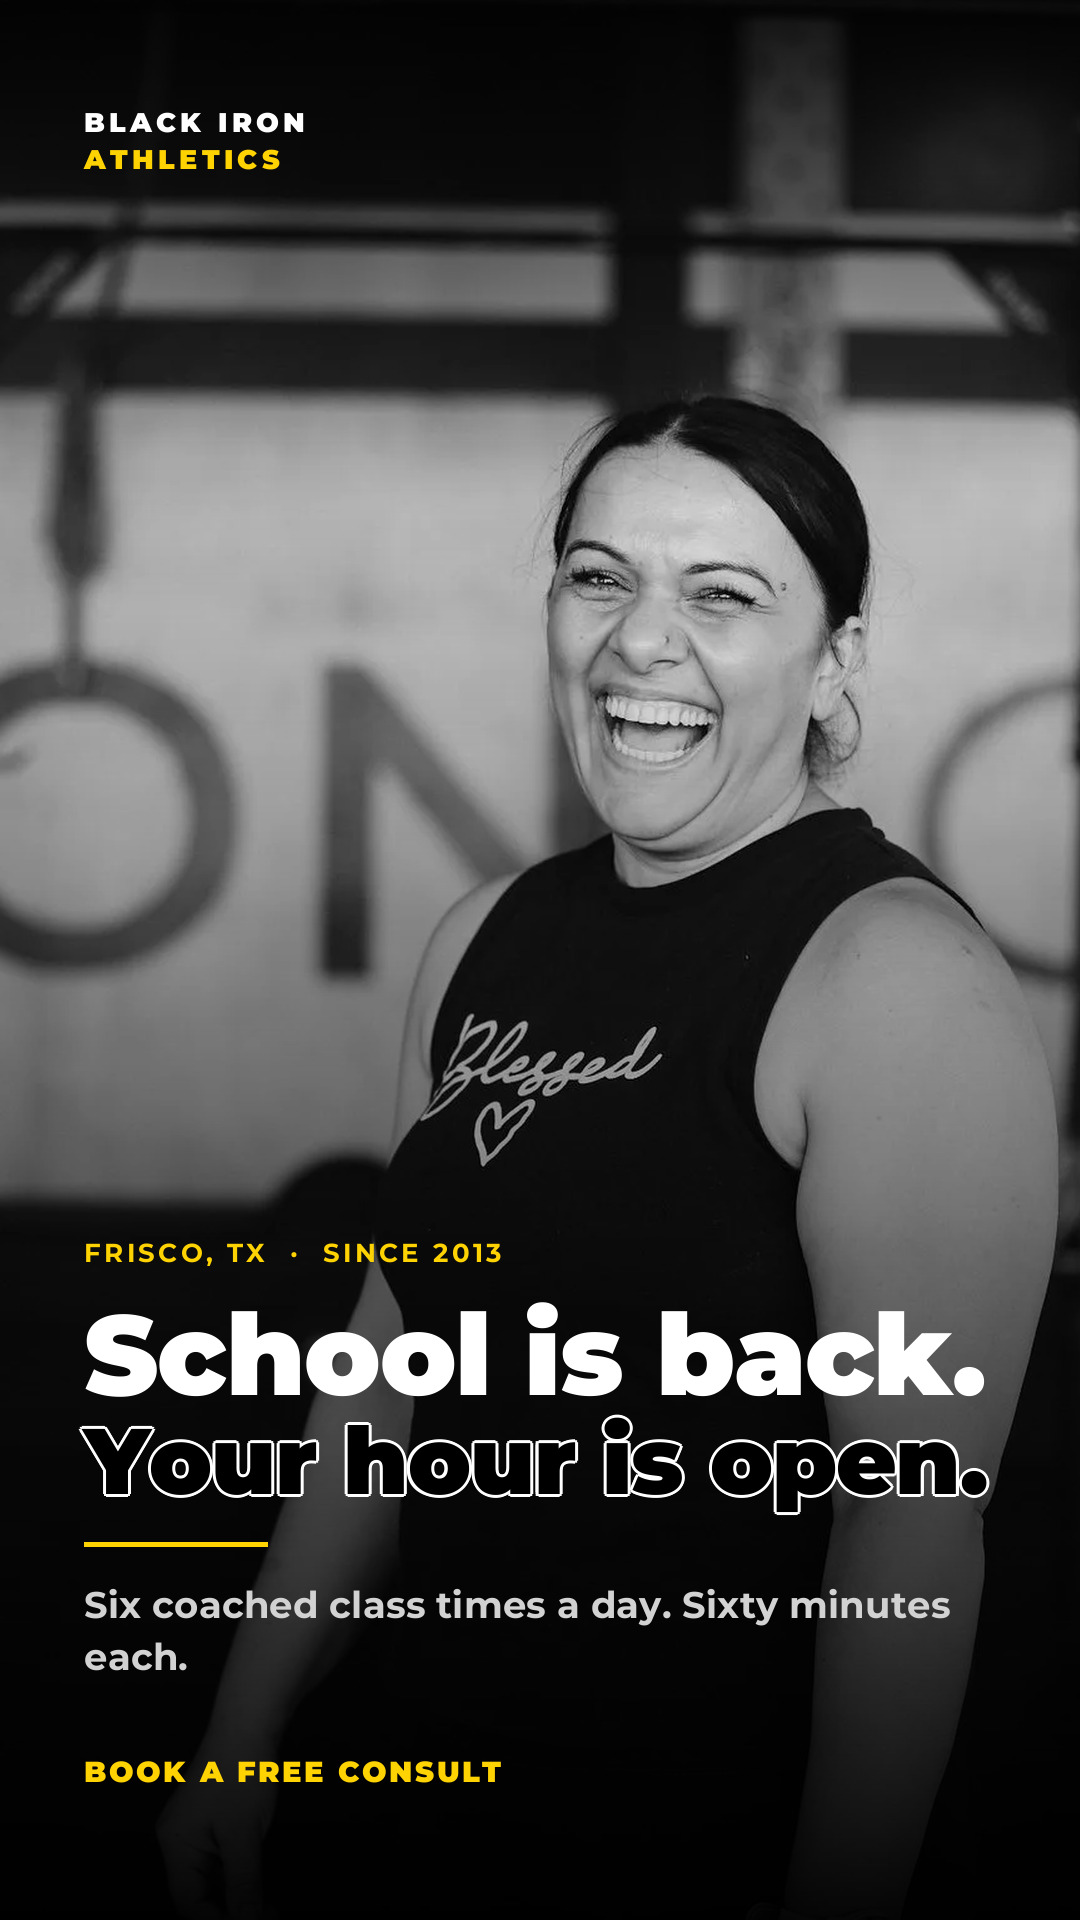
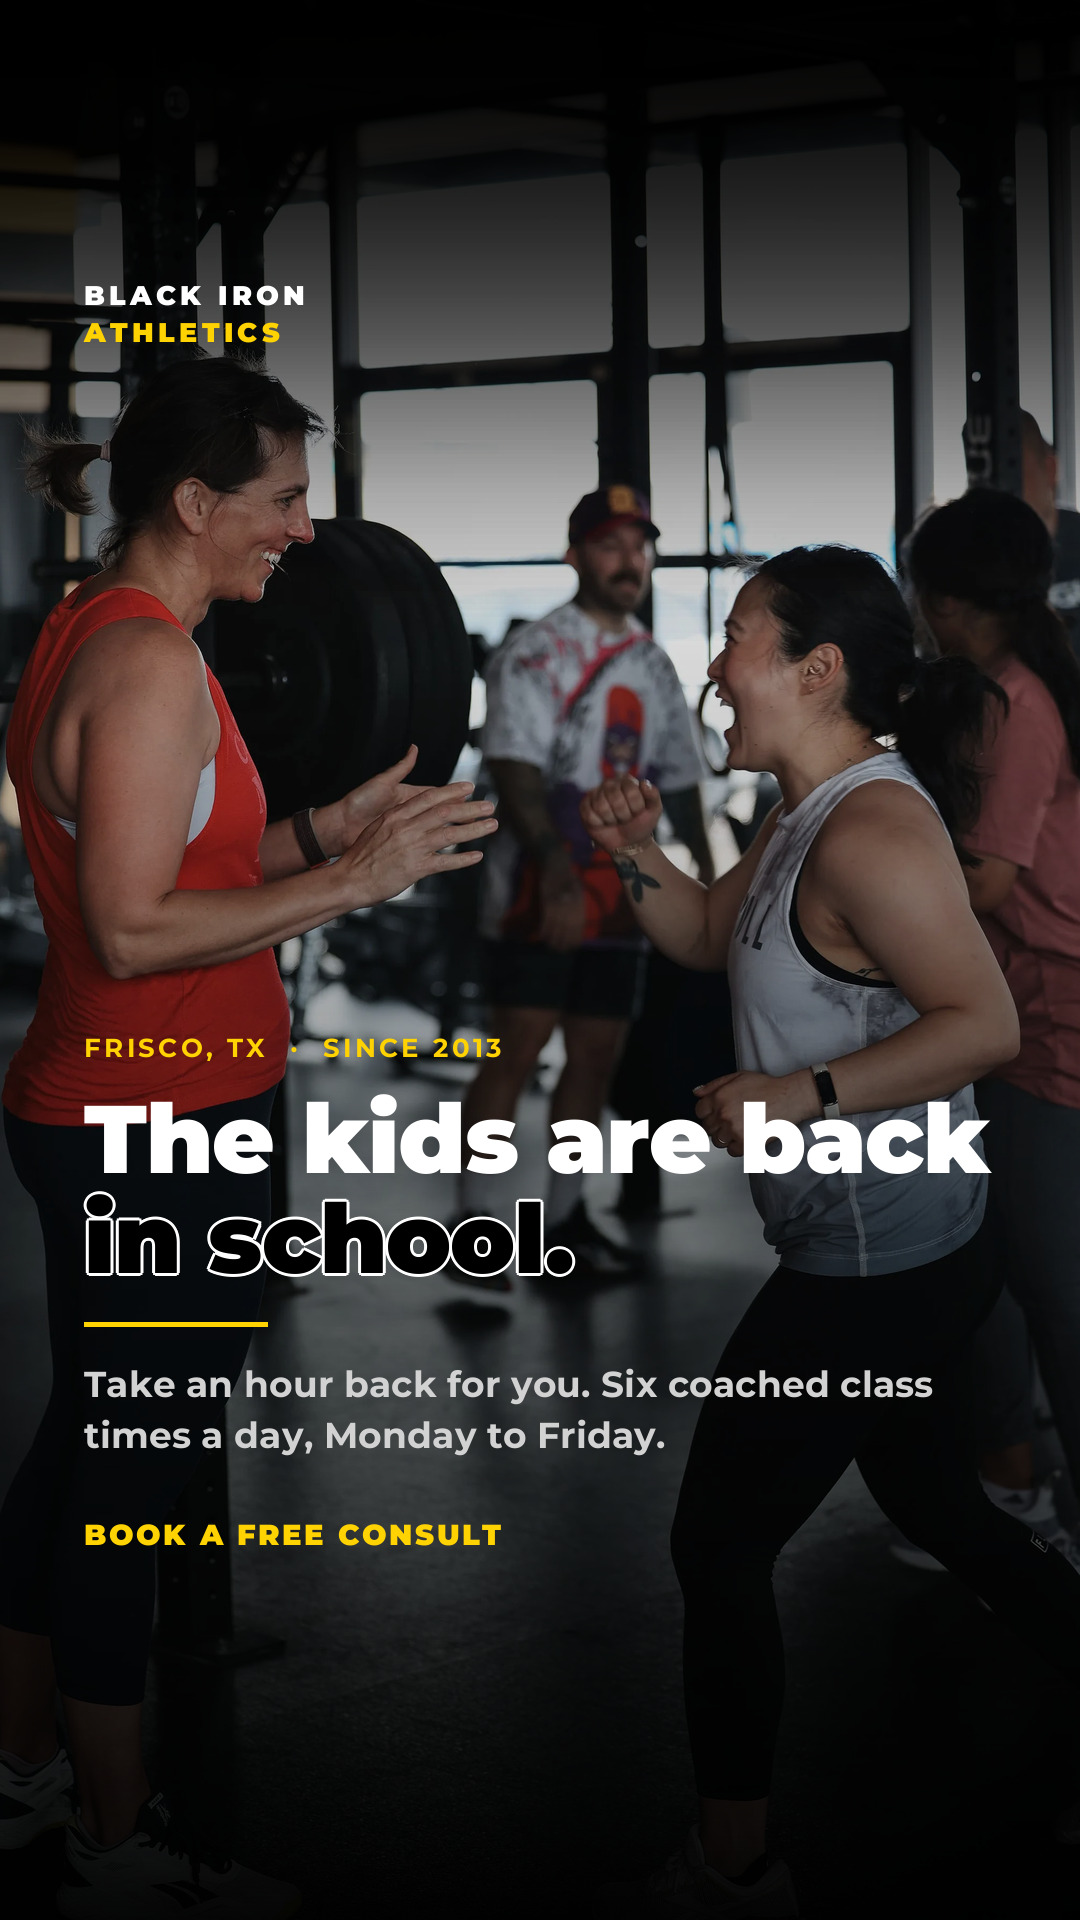
feat: rebuild the eight ad creatives in colour, generator into the repo
Michael's call: colour is more dynamic than the monochrome first cut.
The one exception is the routine women's card, which was shot black and
white and stays that way.

Three photos swapped to the full resolution files he uploaded. Back to
school men is the member in the blue shirt, routine men is the member in
the olive cap, routine women is the Blessed shot. Back to school women
already had the right photo. All four sources are now 2400px or larger
on the long edge.

Crops are per placement now rather than one focus point for both. A
story is 9:16 and a feed card is 4:5, and back to school men shows why:
its source is landscape, so the feed crop is wide enough to hold the
member and the woman behind him, while the story crop is narrow enough
that keeping both would push him to the edge.

The generator lived only in a temp directory, the same fragility that
nearly lost the landing generator, and it depended on a second temp file
for its type helpers. Now self-contained at tools/ads.py, reading the
same Montserrat TTFs blog-header.py uses.

It also checks a second zone. The bottom block was already darkened
until the headline read, but nothing measured the lockup, and the back
to school women's story crop puts it straight onto a blown-out window
where the white greys out and the yellow all but disappears. That band
now gets more top scrim until it reads, which pulls it from 146 to 71
and leaves the other seven cards untouched.

diff --git a/tools/ads.py b/tools/ads.py
@@ -1,0 +1,285 @@
+#!/usr/bin/env python3
+"""Meta ad creatives for the two-campaign funnel.
+
+    python3 tools/ads.py
+
+Writes eight files into images/ads/2026-08-back-to-school: four concepts,
+feed (1080x1350) and story (1080x1920) each. Self-contained apart from
+Pillow and the Montserrat TTFs in tools/fonts, which are gitignored, so a
+fresh clone needs them dropped in once (same three files blog-header.py uses).
+
+Every concept names its own photo, its own crop per placement and whether it
+runs monochrome. Photos are colour by default: Michael's call, they are more
+dynamic. The one exception is member-blessed, which was shot black and white.
+"""
+
+import os
+from PIL import Image, ImageDraw, ImageFont, ImageStat
+
+REPO = os.path.dirname(os.path.dirname(os.path.abspath(__file__)))
+FONTS = os.path.join(REPO, "tools", "fonts")
+OUT = os.path.join(REPO, "images", "ads", "2026-08-back-to-school")
+
+BLACK = (0, 0, 0)
+YELLOW = (255, 210, 2)
+WHITE = (255, 255, 255)
+GRAY = (210, 210, 210)
+
+SIZES = {"feed": (1080, 1350), "story": (1080, 1920)}
+
+# Instagram covers roughly the top and bottom 250px of a 9:16 story with its
+# own chrome: progress bar, profile row and Sponsored label up top, the Send
+# message bar and the link sticker underneath. The first cut put the CTA at
+# y=1781 and the lockup at y=113, so both sat inside that furniture. Feed has
+# no equivalent, so only story gets pulled in.
+SAFE = {"story": dict(base_f=0.770, lock_f=0.145),
+        "feed":  dict(base_f=0.885, lock_f=0.055)}
+
+
+# --- type helpers -----------------------------------------------------------
+
+def F(weight, size):
+    return ImageFont.truetype(os.path.join(FONTS, f"mont-{weight}.ttf"), size)
+
+
+def track(d, xy, text, font, fill, sp=0):
+    """Draw with letter-spacing, which Pillow has no native setting for."""
+    x, y = xy
+    total = 0
+    for ch in text:
+        d.text((x + total, y), ch, font=font, fill=fill)
+        total += d.textlength(ch, font=font) + sp
+    return total - sp if text else 0
+
+
+def track_w(d, text, font, sp=0):
+    return sum(d.textlength(c, font=font) for c in text) + sp * max(0, len(text) - 1)
+
+
+def wrap(d, text, font, maxw, sp=0):
+    lines, cur = [], ""
+    for word in text.split():
+        t = (cur + " " + word).strip()
+        if track_w(d, t, font, sp) <= maxw or not cur:
+            cur = t
+        else:
+            lines.append(cur)
+            cur = word
+    if cur:
+        lines.append(cur)
+    return lines
+
+
+PROBE = ImageDraw.Draw(Image.new("RGB", (8, 8)))
+
+
+def fit(text, size, maxw, weight=900, sp=-1):
+    while size > 26 and track_w(PROBE, text, F(weight, size), sp=sp) > maxw:
+        size -= 2
+    return size
+
+
+# --- image helpers ----------------------------------------------------------
+
+def cover(path, W, H, fx=0.5, fy=0.5, bw=False):
+    """Fill WxH, cropping the overflow axis around a 0..1 focus point."""
+    im = Image.open(os.path.join(REPO, path)).convert("RGB")
+    if bw:
+        im = im.convert("L").convert("RGB")
+    ratio = max(W / im.width, H / im.height)
+    nw, nh = int(im.width * ratio + 1), int(im.height * ratio + 1)
+    im = im.resize((nw, nh), Image.LANCZOS)
+    left, top = int((nw - W) * fx), int((nh - H) * fy)
+    return im.crop((left, top, left + W, top + H))
+
+
+def scrim(im, side="bottom", strength=232, frac=0.72):
+    W, H = im.size
+    g = Image.new("L", (1, H), 0)
+    px = g.load()
+    for y in range(H):
+        p = y / H
+        if side == "bottom":
+            v = 0 if p < (1 - frac) else int(strength * ((p - (1 - frac)) / frac) ** 1.25)
+        else:
+            v = int(strength * (1 - p / frac) ** 1.25) if p < frac else 0
+        px[0, y] = min(255, v)
+    im = im.copy()
+    im.paste(Image.new("RGB", (W, H), BLACK), (0, 0), g.resize((W, H)))
+    return im
+
+
+def mean_l(im, box):
+    return ImageStat.Stat(im.crop(box).convert("L")).mean[0]
+
+
+def bed(photo, W, H, fx, fy, floor, bw, lock_box):
+    """Photo plus scrims, darkened further wherever type still has to sit.
+
+    Two zones, checked separately because they fail separately. The bottom
+    block is the headline and it gets the whole frame pulled down until it
+    reads. The lockup up top only needs its own band, so it gets more top
+    scrim rather than another global blend, which would flatten the photo
+    for the sake of two small words.
+
+    laser-women-story is why the second check exists: the crop puts the
+    lockup straight onto a blown-out window, where white type greys out and
+    the yellow line all but disappears. Every other card sits under 75 and
+    takes no extra passes at all.
+    """
+    im = cover(photo, W, H, fx, fy, bw=bw)
+    im = scrim(im, "bottom", 248, 0.80)
+    im = scrim(im, "top", 200, 0.26)
+
+    n = 0
+    while mean_l(im, (60, max(0, floor), W - 60, H - 90)) > 29 and n < 20:
+        im = Image.blend(im, Image.new("RGB", (W, H), BLACK), 0.15)
+        n += 1
+
+    n = 0
+    while mean_l(im, lock_box) > 62 and n < 12:
+        im = scrim(im, "top", 150, 0.34)
+        n += 1
+    return im
+
+
+def lockup(d, x, y, s=26):
+    f = F(900, s)
+    track(d, (x, y), "BLACK IRON", f, WHITE, sp=s * .16)
+    track(d, (x, y + s * 1.36), "ATHLETICS", f, YELLOW, sp=s * .16)
+
+
+def outline_line(d, xy, text, font, sp, hole=BLACK, rim=WHITE, r=3):
+    """The site's halo build: opaque interior, rim from eight stacked copies.
+    Never color:transparent plus a stroke, which collides at this tracking."""
+    x, y = xy
+    for dx, dy in [(r, 0), (-r, 0), (0, r), (0, -r),
+                   (r * .7, r * .7), (-r * .7, r * .7),
+                   (r * .7, -r * .7), (-r * .7, -r * .7)]:
+        track(d, (x + dx, y + dy), text, font, rim, sp=sp)
+    track(d, (x, y), text, font, hole, sp=sp)
+
+
+# --- the card ---------------------------------------------------------------
+
+def build(c, kind, W, H):
+    M = int(W * 0.078)
+    MAXW = W - M * 2
+    s = SAFE[kind]
+    base = int(H * s["base_f"])
+    fx, fy = c["focus"][kind]
+
+    bigf = fit(c["big"], int(W * 0.150), MAXW)
+    lines = [(c["big"], bigf, "solid"),
+             (c["outlined"], fit(c["outlined"], bigf, MAXW), "outline")]
+    subf = F(700, int(W * 0.0335))
+    subl = wrap(PROBE, c["sub"], subf, MAXW, sp=.2)
+
+    h = (sum(int(sz * 1.05) for _, sz, _ in lines) + 44
+         + len(subl) * int(W * 0.048) + 52)
+    y = base - h
+
+    lock_y = int(H * s["lock_f"])
+    lock_s = 26 if kind == "feed" else 27
+    lock_box = (M, max(0, lock_y - 6), M + int(W * 0.55), lock_y + int(lock_s * 2.6))
+
+    im = bed(c["photo"], W, H, fx, fy, floor=int(y - 105),
+             bw=c.get("bw", False), lock_box=lock_box)
+    d = ImageDraw.Draw(im)
+    lockup(d, M, lock_y, lock_s)
+
+    track(d, (M, y - int(W * 0.046)), c["kicker"], F(700, int(W * 0.0245)),
+          YELLOW, sp=3.4)
+    for txt, sz, style in lines:
+        f = F(900, sz)
+        if style == "outline":
+            outline_line(d, (M, y), txt, f, -1, r=max(2, int(sz * .035)))
+        else:
+            track(d, (M, y), txt, f, WHITE, sp=-1)
+        y += int(sz * 1.05)
+    y += 44
+    d.line([(M, y), (M + int(W * 0.17), y)], fill=YELLOW, width=5)
+    y += int(W * 0.036)
+    for ln in subl:
+        track(d, (M, y), ln, subf, GRAY, sp=.2)
+        y += int(W * 0.048)
+    track(d, (M, base + int(H * 0.020)), c["foot"], F(900, int(W * 0.0275)),
+          YELLOW, sp=2.6)
+
+    im.save(os.path.join(OUT, f"{c['key']}-{kind}.jpg"), quality=92, subsampling=0)
+
+
+# --- the four concepts ------------------------------------------------------
+# Copy echoes the landing page each ad points at, so the click does not land on
+# a different promise. Photos are all 2400px or larger on their long edge: the
+# first men's laser pair was built from a 600x400 file and rendered soft.
+#
+# Crops are per placement because a story is 9:16 and a feed card is 4:5, and
+# one focus point cannot serve both. laser-men is the clearest case: its source
+# is landscape, so the feed crop is wide enough to hold the member and the
+# woman behind him, while the story crop is narrow enough that keeping both
+# would push him to the edge. Feed keeps the pair, story keeps him.
+
+CONCEPTS = [
+    # -> /start-back-to-school
+    #    "The kids are back in school. Take an hour back for you."
+    dict(key="laser-women",
+         photo="images/members/members-laughing.webp",
+         focus={"feed": (.50, .30), "story": (.50, .30)},
+         kicker="FRISCO, TX  ·  SINCE 2013",
+         big="The kids are back", outlined="in school.",
+         sub="Take an hour back for you. Six coached class times a day, Monday to Friday.",
+         foot="BOOK A FREE CONSULT"),
+
+    dict(key="laser-men",
+         photo="images/members/3I1A0424.jpeg",
+         focus={"feed": (.35, .50), "story": (.20, .50)},
+         kicker="FRISCO, TX  ·  SINCE 2013",
+         big="The kids are back", outlined="in school.",
+         sub="Take an hour back for you. Six coached class times a day, Monday to Friday.",
+         foot="BOOK A FREE CONSULT"),
+
+    # -> /start-routine
+    #    "You've started before and it didn't hold. This time you get a coach."
+    dict(key="shotgun-women",
+         photo="images/members/3I1A0778.jpeg",
+         focus={"feed": (.50, .08), "story": (.55, .08)},
+         bw=True,   # shot monochrome; the flag keeps it that way if it is ever re-exported
+         kicker="FRISCO, TX  ·  SINCE 2013",
+         big="You've started before.", outlined="This time, a coach.",
+         sub="Coached classes, three levels, and a plan that was written before you walked in.",
+         foot="BOOK A FREE CONSULT"),
+
+    dict(key="shotgun-men",
+         photo="images/members/3I1A0188.jpeg",
+         focus={"feed": (.50, .10), "story": (.35, .10)},
+         kicker="FRISCO, TX  ·  SINCE 2013",
+         big="You've started before.", outlined="This time, a coach.",
+         sub="Coached classes, three levels, and a plan that was written before you walked in.",
+         foot="BOOK A FREE CONSULT"),
+]
+
+
+if __name__ == "__main__":
+    os.makedirs(OUT, exist_ok=True)
+    made = []
+    for c in CONCEPTS:
+        for kind, (W, H) in SIZES.items():
+            build(c, kind, W, H)
+            made.append(f"{c['key']}-{kind}")
+    print(f"wrote {len(made)} files to images/ads/2026-08-back-to-school")
+
+    # Safe-zone proof: no yellow inside Instagram's story chrome.
+    print("\nSTORY SAFE ZONES (need: top yellow >= 250, bottom yellow <= 1670)")
+    ok = True
+    for m in [x for x in made if x.endswith("story")]:
+        im = Image.open(os.path.join(OUT, f"{m}.jpg")).convert("RGB")
+        W, H = im.size
+        px = im.load()
+        ys = [y for y in range(H) for x in range(0, W, 4)
+              if px[x, y][0] > 200 and 165 < px[x, y][1] < 235 and px[x, y][2] < 90]
+        top, bot = min(ys), max(ys)
+        good = top >= 250 and bot <= 1670
+        ok &= good
+        print(f"  {m:24s} top {top:4d}  bottom {bot:4d}  {'OK' if good else 'FAIL'}")
+    print("all story files inside the safe zone:", ok)
